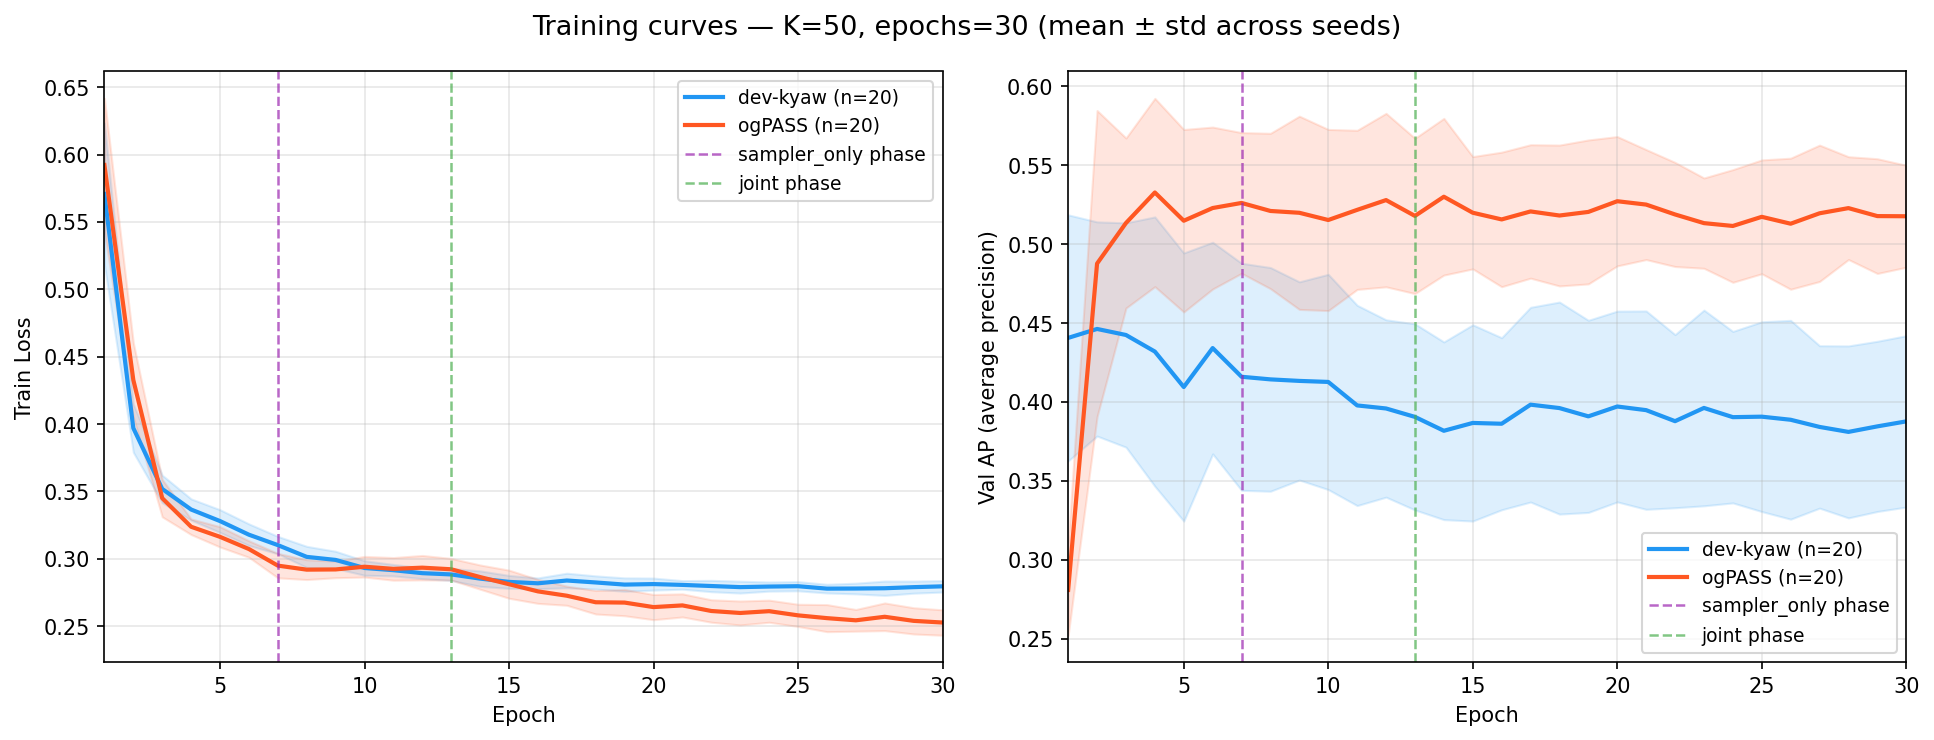
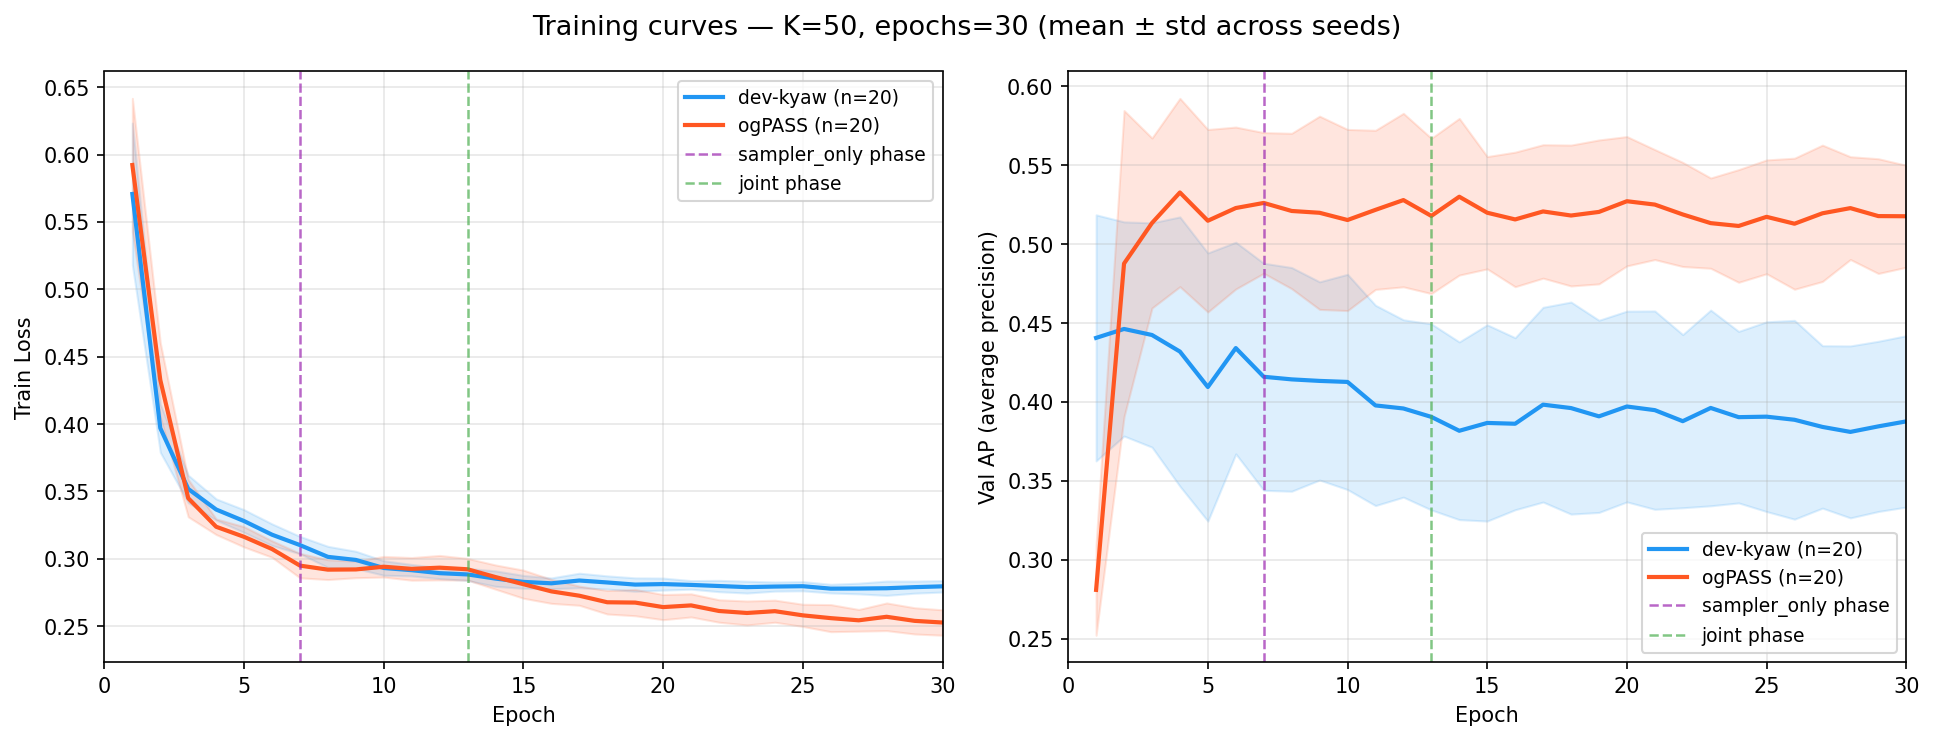
Fix training curves x-axis to start at 0; auto plot/commit/push after each K

diff --git a/debug_runs/plot_training_curves.py b/debug_runs/plot_training_curves.py
@@ -114,7 +114,7 @@ def main():
 
         ax.set_xlabel("Epoch")
         ax.set_ylabel(ylabel)
-        ax.set_xlim(1, args.epochs)
+        ax.set_xlim(0, args.epochs)
         ax.legend(fontsize=9)
         ax.grid(True, alpha=0.3)
 
